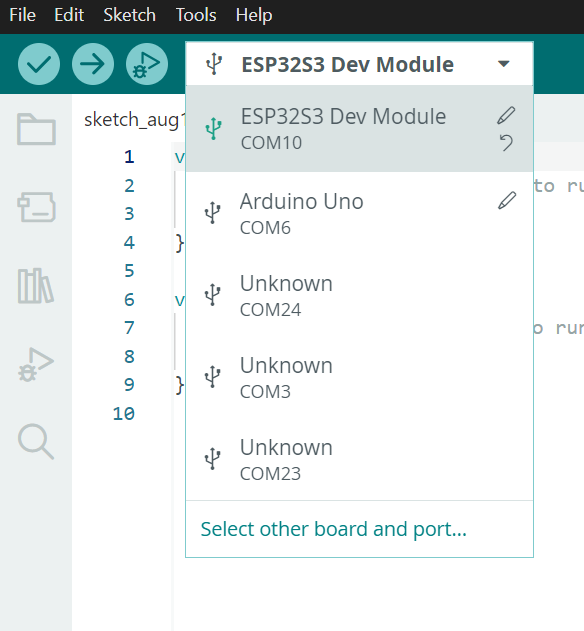
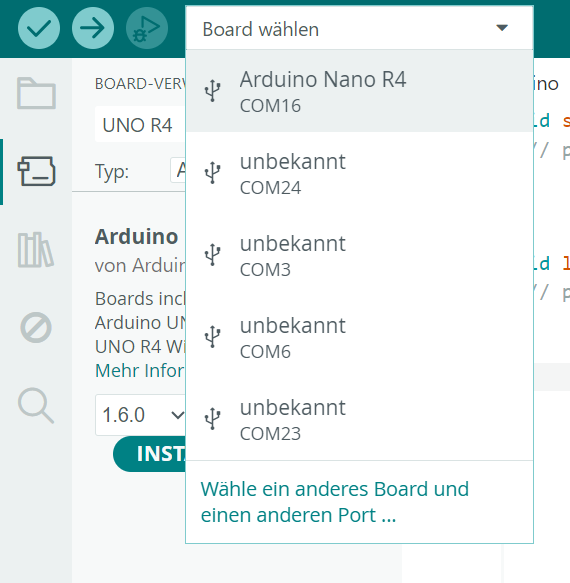
Erste Schritte updated

diff --git a/docs/erste-schritte/ide-einrichten.md b/docs/erste-schritte/ide-einrichten.md
@@ -5,18 +5,13 @@ Mit der Arduino IDE schreibst und überträgst du deine Programme. Für den Ardu
 ## Einrichtung
 
 1. Öffne die Arduino IDE auf deinem PC. Falls du sie zu Hause installieren möchtest, findest du sie auf der [offiziellen Downloadseite](https://www.arduino.cc/en/software/){ target="_blank" }.
-2. Öffne links den **Boardverwalter**.
-3. Suche nach `UNO R4` und installiere die aktuelle Version von **Arduino UNO R4 Boards**. Das Paket stammt von Arduino und enthält die Unterstützung für den Nano R4.
+2. Öffne links den **Boardverwalter**.  
+![Boardverwalter](../images/boardverwalter.png){width="35%"}
+3. Suche nach `UNO R4` und installiere die aktuelle Version von **Arduino UNO R4 Boards**. Das Paket stammt von Arduino und enthält die Unterstützung für den Nano R4.  
+![Boardpaket](../images/R4Package.png){width="35%"}
 4. Verbinde den Nano R4 mit einem **USB-C-Datenkabel** mit dem Computer. Ein reines Ladekabel funktioniert nicht zum Programmieren.
-5. Öffne oben die **Boardauswahl** und wähle **Anderes Board und Port auswählen …**.
-6. Suche nach `Nano R4`, wähle **Arduino Nano R4** sowie den neu erschienenen COM-Port und bestätige mit **OK**.
-
-Eine zusätzliche Boardverwalter-URL oder eine Prozessorauswahl ist für den Nano R4 nicht nötig.
-
-!!! tip "Den richtigen Port finden"
-
-    Ziehe das USB-Kabel kurz ab und öffne die Portliste erneut. Der Eintrag, der verschwindet und nach dem Einstecken wieder erscheint, gehört zum Nano R4.
-
+5. Öffne oben das Dropdown **Board wählen** und wähle **Arduino Nano R4** aus.  
+![Boardauswahl](../images/boardselection.png){width="35%"}
 
 ## IDE-Erklärung
 

diff --git a/docs/index.md b/docs/index.md
@@ -75,14 +75,14 @@ hide:
         <li>
           <input id="course-step-ide" type="checkbox" data-step="ide">
           <div class="course-checklist__copy">
-            <label for="course-step-ide"><small>Schritt 1</small><strong>Arduino IDE einrichten</strong><span>Installiere die Entwicklungsumgebung und verbinde dein Board.</span></label>
+            <label for="course-step-ide"><small>Schritt 1</small><strong>Arduino IDE einrichten</strong><span>Installiere die Entwicklungsumgebung und verbinde dein Board mit Hilfe der Anleitung rechts.</span></label>
             <a href="erste-schritte/ide-einrichten/">Anleitung öffnen <span aria-hidden="true">→</span></a>
           </div>
         </li>
         <li>
           <input id="course-step-erster-sketch" type="checkbox" data-step="erster-sketch">
           <div class="course-checklist__copy">
-            <label for="course-step-erster-sketch"><small>Schritt 2</small><strong>Ersten Sketch laden</strong><span>Übertrage dein erstes kleines Programm auf den Mikrocontroller. Zeige uns dein Ergebniss, wenn du ferig bist.</span></label>
+            <label for="course-step-erster-sketch"><small>Schritt 2</small><strong>Ersten Sketch laden</strong><span>Verfolge die Anleitung zu deinem ersten Programm, lies die Code-Erklährung und löse die Zusatzaufgabe. Zeige uns dein Ergebniss, wenn du ferig bist.</span></label>
             <a href="erste-schritte/erster-sketch/">Anleitung öffnen <span aria-hidden="true">→</span></a>
           </div>
         </li>

diff --git a/docs/erste-schritte/erster-sketch.md b/docs/erste-schritte/erster-sketch.md
@@ -26,21 +26,19 @@ void loop() {
 }
 ```
 
-## Code-Erklärung
+??? info "Code-Erklärung"
 
-### Vorbereitung
+    ### Vorbereitung
 
-`const int ledPin = LED_BUILTIN;` speichert den vom Boardpaket festgelegten Pin der eingebauten LED unter dem Namen `ledPin`. Der Sketch bleibt dadurch eindeutig für den Nano R4.
+    `const int ledPin = LED_BUILTIN;` speichert den vom Boardpaket festgelegten Pin der eingebauten LED unter dem Namen `ledPin`. Der Sketch bleibt dadurch eindeutig für den Nano R4.
 
-### Einmaliger Start
+    ### Einmaliger Start
 
-In `setup()` wird der Pin mit `pinMode()` als Ausgang festgelegt.
+    In `setup()` wird der Pin mit `pinMode()` als Ausgang festgelegt.
 
-### Wiederholung
+    ### Wiederholung
 
-In `loop()` wird die LED eingeschaltet, eine halbe Sekunde gewartet, ausgeschaltet und wieder gewartet. Danach beginnt `loop()` automatisch von vorne.
+    In `loop()` wird die LED eingeschaltet, eine halbe Sekunde gewartet, ausgeschaltet und wieder gewartet. Danach beginnt `loop()` automatisch von vorne.
 
-## Mitmach-Aufgabe
-
-!!! info "Mitmach-Aufgabe"
+!!! note "Zusatzaufgabe"
     Programmiere ein Herzschlag-Muster: zweimal kurz blinken, danach eine längere Pause. Du darfst dafür weitere `digitalWrite()`- und `delay()`-Zeilen ergänzen.
